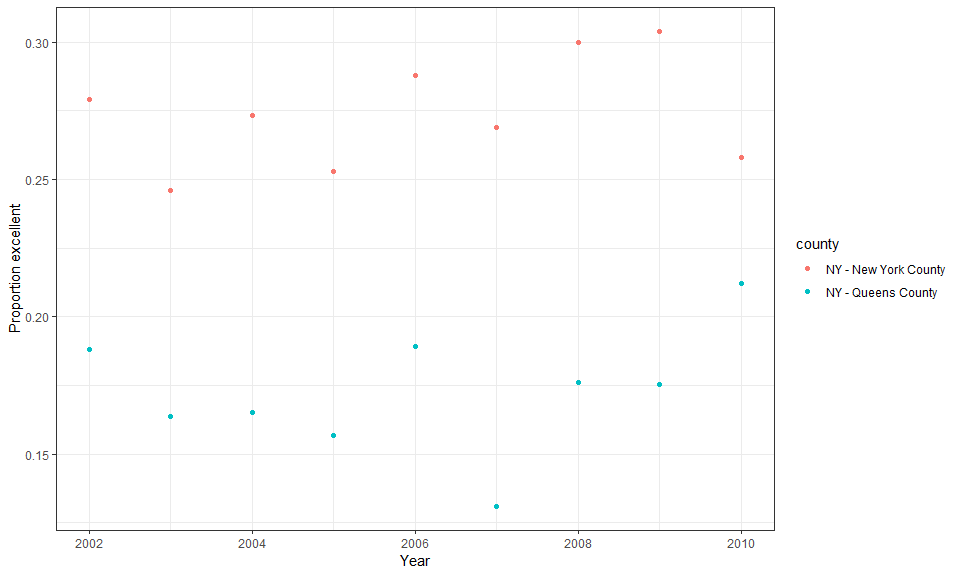
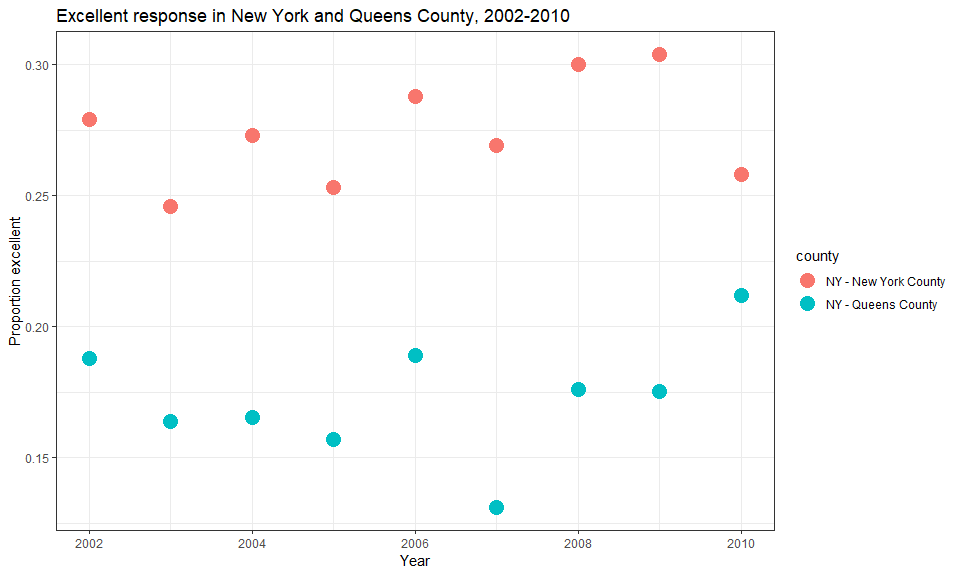
added title to scatter plot and changed size of points to be larger

diff --git a/p8105_hw2_ntw2117.md b/p8105_hw2_ntw2117.md
@@ -115,7 +115,9 @@ brfss_data <- brfss_data %>%
 #### Answers to questions
 
 -   There are 404 distinct locations in the dataset. Every state, and the District of Columbia are represented. NEED TO FINSIH THIS QUESTION.
--   In 2002, the median excellent response value was 23.6
+-   In 2002, the median excellent response value was 23.6.
+
+#### Plots
 
 ``` r
 brfss_data %>% 
@@ -135,9 +137,10 @@ brfss_data %>%
   filter(county %in% c("NY - New York County", "NY - Queens County")) %>% 
   mutate(prop_excellent = excellent / (excellent + fair + good + poor + very_good)) %>% 
   ggplot(aes(x = year, y = prop_excellent, color = county)) + 
-  geom_point() + 
+  geom_point(size = 5) + 
   labs(x = "Year", 
-       y = "Proportion excellent") + 
+       y = "Proportion excellent", 
+       title = "Excellent response in New York and Queens County, 2002-2010") + 
   theme_bw()
 ```
 
